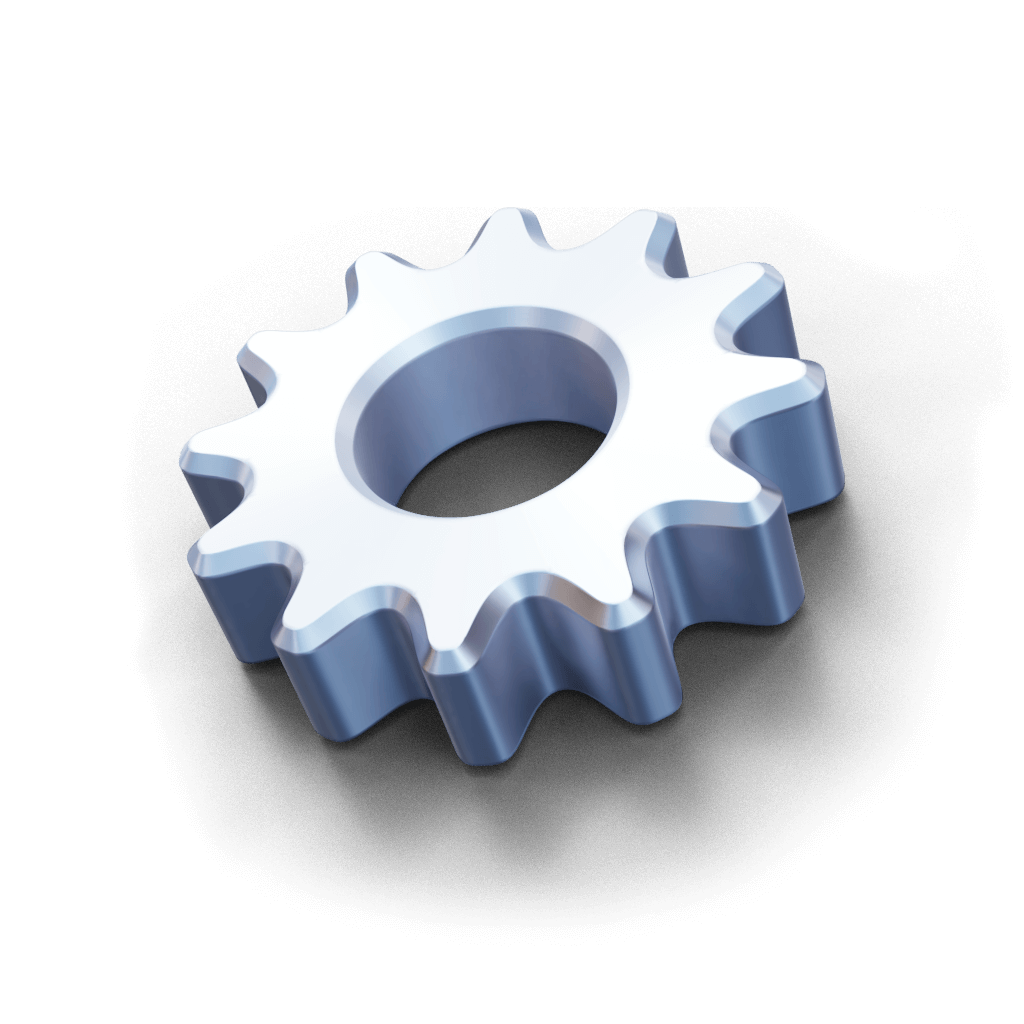
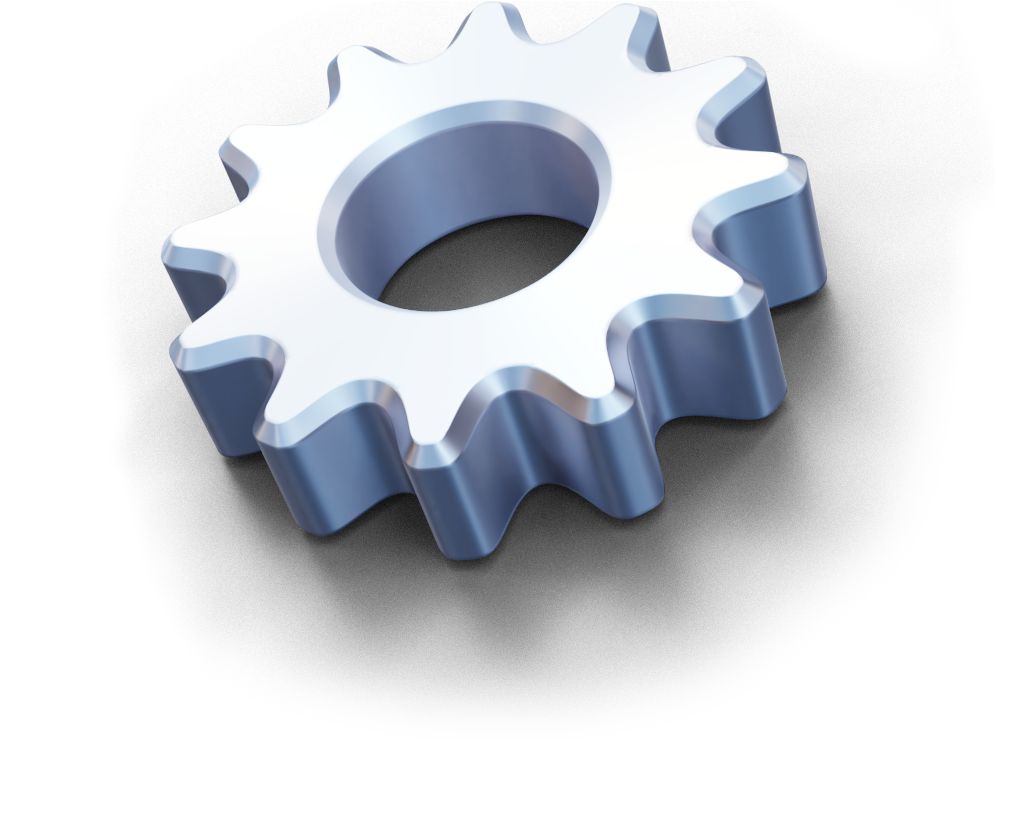
Remove extra platform options from downloads page
Other changes:
- Adjust font scaling for 4K resolution
- Remove unused images

diff --git a/downloads.html b/downloads.html
@@ -123,198 +123,70 @@
         Please note that FreeCAD has still not reached a version 1.0 status in our view, and 
         might not be ready for production use. Nevertheless multitudes of users use it. To 
         find out if FreeCAD is appropriate for your project, please check out the 
-        <a href="https://forum.freecadweb.org/" class="badge badge-light">FreeCAD forum</a>
-        . To find out what's new, see the 
-        <a href="https://www.freecadweb.org/wiki/Release_notes_0.17" class="badge badge-light">release notes</a>
-        . You will find SHA256 checksums (to verify integrity of your download) and Windows 
-        portable versions on the 
-        <a href="https://github.com/FreeCAD/FreeCAD/releases/tag/0.17" class="badge badge-light">0.17 Release page on GitHub</a>
-        . (Older portable builds have been pruned. Availability will return in the future) 
+        <a href="https://forum.freecadweb.org/" class="badge badge-light">FreeCAD forum</a>. 
+        To find out what's new, see the 
+        <a href="https://www.freecadweb.org/wiki/Release_notes_0.17" class="badge badge-light">release notes</a>. 
+        You will find SHA256 checksums (to verify integrity of your download) and Windows portable versions on the 
+        <a href="https://github.com/FreeCAD/FreeCAD/releases/tag/0.17" class="badge badge-light">0.17 Release page on GitHub</a>. 
+        (Older portable builds have been pruned. Availability will return in the future) 
       </p>
     </div>
 
-    <!-- <div class="row">
-      <div class="col-sm-4">
+    <div class="row mx-auto download-platform">
+      <div class="col-sm-6 col-lg-4 my-4">
         <div class="card text-dark">
-          <div class="card-body d-flex align-items-center">
-            <img src="svg/icon-windows.svg" alt="Windows">
-            <h5 class="card-title m-0">Windows</h5>
+          <div class="card-body d-block align-items-center text-center px-xl-5 py-xl-4">
+            <img class="w-100 p-4" src="svg/icon-windows.svg" alt="Windows">
+            <h3 class="card-title download-platform-name m-0 pb-3">Windows</h3>
+            <div class="flex-column flex-lg-row">
+              <a class="btn btn-primary rounded-pill my-1" role="button" href="https://github.com/FreeCAD/FreeCAD/releases/download/0.17/FreeCAD-0.17.13528.5c3f7bf-WIN-x86-installer.exe">32-Bit</a>
+              <a class="btn btn-primary rounded-pill my-1" role="button" href="https://github.com/FreeCAD/FreeCAD/releases/download/0.17/FreeCAD-0.17.13541.9948ee4-WIN-x64-installer.exe">64-Bit</a>
+            </div>
+          </div>
+          <div class="card-footer px-xl-5 py-xl-4">
+            <small class="text-muted">
+              Windows 7 is the minimum supported version. For more info on installation, please check out the 
+              <a href="https://www.freecadweb.org/wiki/Install_on_Windows">wiki</a>.
+            </small>
           </div>
         </div>
       </div>
-      <div class="col-sm-4">
+      <div class="col-sm-6 col-lg-4 my-4">
         <div class="card text-dark">
-          <div class="card-body d-flex align-items-center">
-            <img src="svg/icon-apple.svg" alt="Mac">
-            <h5 class="card-title m-0">Mac</h5>
+          <div class="card-body d-block align-items-center text-center px-xl-5 py-xl-4">
+            <img class="w-100 p-4" src="svg/icon-apple.svg" alt="Mac">
+            <h3 class="card-title download-platform-name m-0 pb-3">Mac</h3>
+            <a class="btn btn-primary rounded-pill my-1" role="button" href="https://github.com/FreeCAD/FreeCAD/releases/download/0.17/FreeCAD_0.17-13541.9948ee4-OSX-x86_64-Qt5.dmg">
+              64-Bit
+            </a>
+          </div>
+          <div class="card-footer px-xl-5 py-xl-4">
+            <small class="text-muted">
+              Mac OS X 10.11 El Capitan is the minimum supported version. For more info on installation, please check out the 
+              <a href="https://www.freecadweb.org/wiki/Install_on_Mac">wiki</a>.
+            </small>
           </div>
         </div>
       </div>
-      <div class="col-sm-4">
+      <div class="col-sm-6 col-lg-4 my-4">
         <div class="card text-dark">
-          <div class="card-body d-flex align-items-center">
-            <img src="svg/icon-linux.svg" alt="Linux">
-            <h5 class="card-title m-0">Linux</h5>
+          <div class="card-body d-block align-items-center text-center px-xl-5 py-xl-4">
+            <img class="w-100 p-4" src="svg/icon-linux.svg" alt="Linux">
+            <h3 class="card-title download-platform-name m-0 pb-3">Linux</h3>
+            <a class="btn btn-primary rounded-pill my-1" role="button" href="https://github.com/FreeCAD/FreeCAD/releases/download/0.17/FreeCAD-0.17.13541.9948ee4.glibc2.17-x86_64.AppImage">
+              64-Bit AppImage
+            </a>
           </div>
-        </div>
-      </div>
-    </div> -->
-
-    <div class="card-columns my-5">
-      <div class="card text-dark">
-        <div class="card-header px-xl-5 py-xl-4">
-          <h3 class="download-platform-name m-0">Windows</h3>
-        </div>
-        <div class="card-body px-xl-5 py-xl-4">
-          <p class="card-text">
-            Download the Windows installer for FreeCAD. For more info on installation, click 
-            <a href="https://www.freecadweb.org/wiki/Install_on_Windows">here</a>.
-          </p>
-          <div class="flex-column flex-lg-row">
-            <a class="btn btn-primary rounded-pill my-2" role="button" href="https://github.com/FreeCAD/FreeCAD/releases/download/0.17/FreeCAD-0.17.13528.5c3f7bf-WIN-x86-installer.exe">32-Bit</a>
-            <a class="btn btn-primary rounded-pill my-2" role="button" href="https://github.com/FreeCAD/FreeCAD/releases/download/0.17/FreeCAD-0.17.13541.9948ee4-WIN-x64-installer.exe">64-Bit</a>
-          </div>
-        </div>
-        <div class="card-footer px-xl-5 py-xl-4">
-          <small class="text-muted">
-            Note: The 32-Bit installer (x86) and 64-Bit installer (x64) supports 
-            the following versions of Windows: 7/8/10.
-          </small>
-        </div>
-      </div>
-      <div class="card text-dark">
-        <div class="card-header px-xl-5 py-xl-4">
-          <h3 class="download-platform-name m-0">Mac</h3>
-        </div>
-        <div class="card-body px-xl-5 py-xl-4">
-          <p class="card-text">
-            Download the Mac installer for FreeCAD. For more info on installation, click <a href="https://www.freecadweb.org/wiki/Install_on_Mac">here</a>.
-          </p>
-          <a class="btn btn-primary rounded-pill my-2" role="button" href="https://github.com/FreeCAD/FreeCAD/releases/download/0.17/FreeCAD_0.17-13541.9948ee4-OSX-x86_64-Qt5.dmg">
-            64-Bit
-          </a>
-        </div>
-        <div class="card-footer px-xl-5 py-xl-4">
-          <small class="text-muted">
-            Note: Mac OS X 10.11 El Capitan is the minimum supported version.
-          </small>
-        </div>
-      </div>
-
-      <div class="card text-dark">
-        <div class="card-header px-xl-5 py-xl-4">
-          <h3 class="download-platform-name m-0">Ubuntu</h3>
-        </div>
-        <div class="card-body px-xl-5 py-xl-4">
-          <p class="card-text">
-            FreeCAD is available from the Ubuntu repositories and can be installed with this command in a terminal:
-          </p>
-          <div class="alert alert-secondary" role="alert">
-            <code class="text-dark">sudo apt install freecad</code>
-          </div>
-          <p>
-              But chances are this stable version will be outdated, and not have the latest features. 
-              To get the last release version, please use the PPA:
-          </p>
-          <div class="alert alert-secondary" role="alert">
-            <code class="text-dark">sudo add-apt-repository ppa:freecad-maintainers/freecad-stable</code>
-          </div>
-          <p>
-            Synchronize the list of available packages with the servers:
-          </p>
-          <div class="alert alert-secondary" role="alert">
-            <code class="text-dark">sudo apt update</code>
-          </div>
-          <p>
-            Then, install FreeCAD along with the documentation:
-          </p>
-          <div class="alert alert-secondary" role="alert">
-            <code class="text-dark">sudo apt install freecad freecad-doc && sudo apt upgrade</code>
-          </div>
-        </div>
-      </div>
-      
-      <div class="card text-dark">
-        <div class="card-header px-xl-5 py-xl-4">
-          <h3 class="download-platform-name m-0">Fedora</h3>
-        </div>
-        <div class="card-body px-xl-5 py-xl-4">
-          <p class="card-text">
-            FreeCAD has been included in the official Fedora packages since Fedora 20. It can be 
-            installed from the command line with:
-          </p>
-          <div class="alert alert-secondary" role="alert">
-            <code class="text-dark">sudo dnf install freecad</code>
-          </div>
-        </div>
-      </div>
-
-      <div class="card text-dark">
-        <div class="card-header px-xl-5 py-xl-4">
-          <h3 class="download-platform-name m-0">OpenSUSE</h3>
-        </div>
-        <div class="card-body px-xl-5 py-xl-4">
-          <p class="card-text">
-            FreeCAD is typically installed with: 
-          </p>
-          <div class="alert alert-secondary" role="alert">
-            <code class="text-dark">zypper install FreeCAD</code>
-          </div>
-        </div>
-      </div>
-
-      <div class="card text-dark">
-        <div class="card-header px-xl-5 py-xl-4">
-          <h3 class="download-platform-name m-0">AppImage</h3>
-        </div>
-        <div class="card-body px-xl-5 py-xl-4">
-          <p class="card-text">
-            FreeCAD can be installed from most Linux distributions official repositories, but 
-            the version they provide might be quite dated and be missing many features. Instead 
-            you can download the linked AppImage below, mark it as executable and launch it without 
-            installation. </p>
-          <a class="btn btn-primary rounded-pill my-2" role="button" href="https://github.com/FreeCAD/FreeCAD/releases/download/0.17/FreeCAD-0.17.13541.9948ee4.glibc2.17-x86_64.AppImage">
-            64-Bit
-          </a>
-        </div>
-      </div>
-
-      <div class="card text-dark">
-        <div class="card-header px-xl-5 py-xl-4">
-          <h3 class="download-platform-name m-0">Snap</h3>
-        </div>
-        <div class="card-body px-xl-5 py-xl-4">
-          <p class="card-text">Install using the command line:</p>
-          <div class="alert alert-secondary" role="alert">
-            <code class="text-dark">snap install freecad</code>
-          </div>
-        </div>
-      </div>
-      <div class="card text-dark">
-        <div class="card-header px-xl-5 py-xl-4">
-          <h3 class="download-platform-name m-0">Flatpak</h3>
-        </div>
-        <div class="card-body px-xl-5 py-xl-4">
-          <p class="card-text">Install using the command line:</p>
-          <div class="alert alert-secondary" role="alert">
-            <code class="text-dark">flatpak install org.freecadweb.FreeCAD</code>
-          </div>
-        </div>
-      </div>
-
-      <div class="card text-dark">
-        <div class="card-header px-xl-5 py-xl-4">
-          <h3 class="download-platform-name m-0">Gentoo</h3>
-        </div>
-        <div class="card-body px-xl-5 py-xl-4">
-          <p class="card-text">FreeCAD can be built/installed simply by issuing:</p>
-          <div class="alert alert-secondary" role="alert">
-            <code class="text-dark">emerge freecad</code>
+          <div class="card-footer px-xl-5 py-xl-4">
+            <small class="text-muted">
+              For distro-specific instructions and other ways to install on Linux, please check out the 
+              <a href="https://www.freecadweb.org/wiki/Install_on_Unix">wiki</a>.
+            </small>
           </div>
         </div>
       </div>
     </div>
-
+    
     <div class="download-notes text-center">
       <h2 class="downloads-notes-title">Development versions</h2>
       <p>

diff --git a/css/style.css b/css/style.css
@@ -93,7 +93,7 @@ h1, h2, h3, h4, h5, h6 {
 .btn {
   font-family: "Montserrat-Bold", sans-serif;
   font-size: 1em;
-  padding: 0.4em 2em 0.4em 2em;
+  padding: 0.4em 1.6em 0.4em 1.6em;
 }
 
 #main .section-cover {
@@ -139,22 +139,16 @@ h1, h2, h3, h4, h5, h6 {
 }
 
 .card {
-  border-radius: 0.6em;
+  border-radius: 0.8em;
 }
 
 .download-platform-name {
   font-size: 1.4em;
-  /* margin-top: 0.4em;
-  margin-bottom: 0.4em; */
 }
 
 .download-notes {
   margin-top: 3em;
   margin-bottom: 4em;
-}
-
-.card-columns {
-  column-count: 1;
 }
 
 @media (min-width: 400px) {
@@ -198,9 +192,6 @@ h1, h2, h3, h4, h5, h6 {
     font-size: 0.8em;
   }
 
-  .card-columns {
-    column-count: 2;
-  }
 }
 
 @media (min-width: 1200px) {
@@ -229,9 +220,9 @@ h1, h2, h3, h4, h5, h6 {
   }
 }
 
-@media (min-width: 1920px) {
+@media (min-width: 1800px) {
   body {
-    font-size: 30px;
+    font-size: 28px;
   }
 
   .home-title {
@@ -242,19 +233,23 @@ h1, h2, h3, h4, h5, h6 {
     font-size: 1.4em;
   }
   
-  .btn {
+  /* .btn {
     font-size: 1em;
-  }
+  } */
 
   #floating-arrow {
     width: 2em;
     margin: 4em 0 4em 0;
   }
+
+  .download-platform {
+    max-width: 70vw;
+  }
 }
 
-@media (min-width: 2560px) {
+@media (min-width: 2400px) {
   body {
-    font-size: 36px;
+    font-size: 32px;
   }
 
   #main .section-cover {
@@ -263,5 +258,40 @@ h1, h2, h3, h4, h5, h6 {
 
   #main .section {
     margin: 10em 0 10em 0;
+  }
+
+  .download-platform {
+    max-width: 60vw;
+  }
+}
+
+@media (min-width: 3500px) {
+  body {
+    font-size: 40px;
+  }
+
+  .home-title {
+    font-size: 6em;
+  }
+  
+  .home-subtitle {
+    font-size: 1.8em;
+  }
+
+  #main .section-cover {
+    margin-top: 8em;
+  }
+
+  #main .section {
+    margin: 12em 0 12em 0;
+  }
+
+  #floating-arrow {
+    width: 4em;
+    margin: 6em 0 6em 0;
+  }
+
+  .download-platform {
+    max-width: 50vw;
   }
 }

diff --git a/index.html b/index.html
@@ -119,7 +119,7 @@
   <div id="main" class="container-fluid">
     <section class="row section-cover d-flex align-items-center">
       <div class="col-lg-5">
-        <img class="img-fluid" src="images/cover-photo-2.png" alt="Cover Photo"/>
+        <img class="img-fluid" src="images/cover-photo.png" alt="Cover Photo"/>
       </div>
 
       <div class="col-lg-7 text-center text-lg-left align-content-center order-lg-first">
